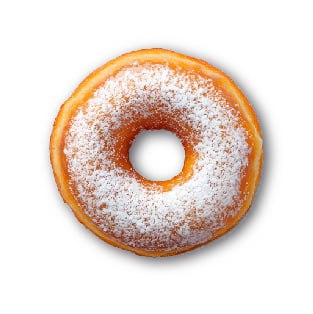
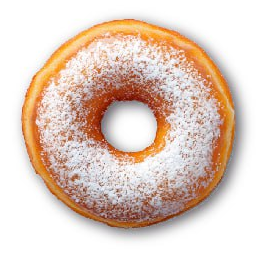
Resized donuts in the menu section

diff --git a/src/data/donuts.js b/src/data/donuts.js
@@ -1,0 +1,98 @@
+import donut1 from '../assets/donut_1.png'
+import donut2 from '../assets/donut_2.png'
+import donut3 from '../assets/donut_3.png'
+import donut4 from '../assets/donut_4.png'
+import donut5 from '../assets/donut_5.png'
+import donut6 from '../assets/donut_6.png'
+import donut7 from '../assets/donut_7.png'
+import donut8 from '../assets/donut_8.png'
+import donut9 from '../assets/donut_9.png'
+import donut10 from '../assets/donut_10.png'
+import donut11 from '../assets/donut_11.png'
+import donut12 from '../assets/donut_12.png'
+
+
+/**
+ * Donut data structure
+ * @typedef {Object} Donut
+ * @property {string} imageUrl - URL of the donut image
+ * @property {string} nameJp - Japanese name of the donut
+ * @property {string} nameEn - English name of the donut
+ * @property {number} price - Price in yen
+ */
+
+/** @type {Donut[]} */
+export const donuts = [
+  {
+    imageUrl: donut1,
+    nameJp: 'シュガーグレイズド',
+    nameEn: 'SUGAR GLAZED',
+    price: 180,
+  },
+  {
+    imageUrl: donut2,
+    nameJp: 'カラメリゼナッツ',
+    nameEn: 'CARAMEL NUTS',
+    price: 280,
+  },
+  {
+    imageUrl: donut3,
+    nameJp: 'チェリーデニッシュ',
+    nameEn: 'CHERRY DANISH',
+    price: 260,
+  },
+  {
+    imageUrl: donut4,
+    nameJp: 'マーブル',
+    nameEn: 'MARBLE',
+    price: 280,
+  },
+  {
+    imageUrl: donut5,
+    nameJp: 'アーモンドプードル',
+    nameEn: 'ALMOND POWDER',
+    price: 280, 
+  },
+  {
+    imageUrl: donut6,
+    nameJp: 'チョコクリーム',
+    nameEn: 'CHOCOLATE CREAM',
+    price: 280,
+  },
+  {
+    imageUrl: donut7,
+    nameJp: 'シナモンシュガー',
+    nameEn: 'CINNAMON SUGAR',
+    price: 280,
+  },  
+  {
+    imageUrl: donut8,
+    nameJp: 'モカ',
+    nameEn: 'MOCHA',
+    price: 280,
+  },
+  {
+    imageUrl: donut9,
+    nameJp: 'ホイップクリーム',
+    nameEn: 'WHIPPED CREAM',
+    price: 280,
+  },  
+  {
+    imageUrl: donut10,
+    nameJp: 'パウダーシュガー',
+    nameEn: 'POWDER SUGAR',
+    price: 280,
+  },
+  {
+    imageUrl: donut11,
+    nameJp: 'クリームチーズラズベリー',
+    nameEn: 'CREAM CHEESE RASPBERRY',
+    price: 280,
+  },  
+  {
+    imageUrl: donut12,
+    nameJp: 'ホワイトチョコ',
+    nameEn: 'WHITE CHOCOLATE',
+    price: 280,
+  },  
+] 

diff --git a/src/components/menu/DonutCard.jsx b/src/components/menu/DonutCard.jsx
@@ -1,0 +1,43 @@
+// eslint-disable-next-line no-unused-vars
+import React from 'react'
+import PropTypes from 'prop-types'
+
+/**
+ * DonutCard component displays individual donut information
+ * @param {Object} props
+ * @param {string} props.imageUrl - URL of the donut image
+ * @param {string} props.nameJp - Japanese name of the donut
+ * @param {string} props.nameEn - English name of the donut
+ * @param {number} props.price - Price in yen
+ */
+const DonutCard = ({ imageUrl, nameJp, nameEn, price }) => {
+  return (
+    <div className="flex flex-col items-center p-4 transition-transform hover:scale-105">
+      {/* Image container with white circular backdrop */}
+      <div className="relative mb-4">
+        <div className="w-80 h-80 bg-white rounded-full absolute top-1/2 left-1/2 -translate-x-1/2 -translate-y-1/2 scale-90" />
+        <img 
+          src={imageUrl} 
+          alt={nameEn} 
+          className="w-72 h-72 relative z-10 object-contain"
+        />
+      </div>
+      
+      {/* Text content */}
+      <div className="text-center">
+        <h3 className="text-lg font-medium text-mauve-dark">{nameJp}</h3>
+        <p className="text-md text-mauve-dark">{nameEn}</p>
+        <p className="text-md font-medium text-mauve-dark">¥{price}</p>
+      </div>
+    </div>
+  )
+}
+
+DonutCard.propTypes = {
+  imageUrl: PropTypes.string.isRequired,
+  nameJp: PropTypes.string.isRequired,
+  nameEn: PropTypes.string.isRequired,
+  price: PropTypes.number.isRequired,
+}
+
+export default DonutCard 

diff --git a/src/components/sections/MenuSection.jsx b/src/components/sections/MenuSection.jsx
@@ -1,10 +1,35 @@
+// eslint-disable-next-line no-unused-vars
 import React from 'react'
+import DonutCard from '../menu/DonutCard'
+import { donuts } from '../../data/donuts'
 
 const MenuSection = () => {
   return (
-    <section id="menu" className="min-h-screen bg-mauve-light">
-      <div className="container mx-auto px-4 py-16">
-        <h2 className="text-4xl text-center text-mauve-dark mb-8">Menu</h2>
+    <section id="menu" className="min-h-screen bg-mauve-light py-16">
+      <div className="container mx-auto px-4">
+        {/* Header */}
+        <div className="text-center mb-12">
+          <div className="w-24 h-24 mx-auto mb-4 bg-white rounded-full flex items-center justify-center">
+            LOGO
+          </div>
+          <h2 className="text-4xl text-mauve-dark mb-4">Menu</h2>
+          <p className="text-xl text-mauve-dark max-w-2xl mx-auto">
+            Discover our handcrafted selection of artisanal donuts, made fresh daily with love
+          </p>
+        </div>
+
+        {/* Donut Grid */}
+        <div className="grid grid-cols-1 sm:grid-cols-2 lg:grid-cols-3 xl:grid-cols-4 gap-8 justify-items-center">
+          {donuts.map((donut, index) => (
+            <DonutCard
+              key={index}
+              imageUrl={donut.imageUrl}
+              nameJp={donut.nameJp}
+              nameEn={donut.nameEn}
+              price={donut.price}
+            />
+          ))}
+        </div>
       </div>
     </section>
   )
